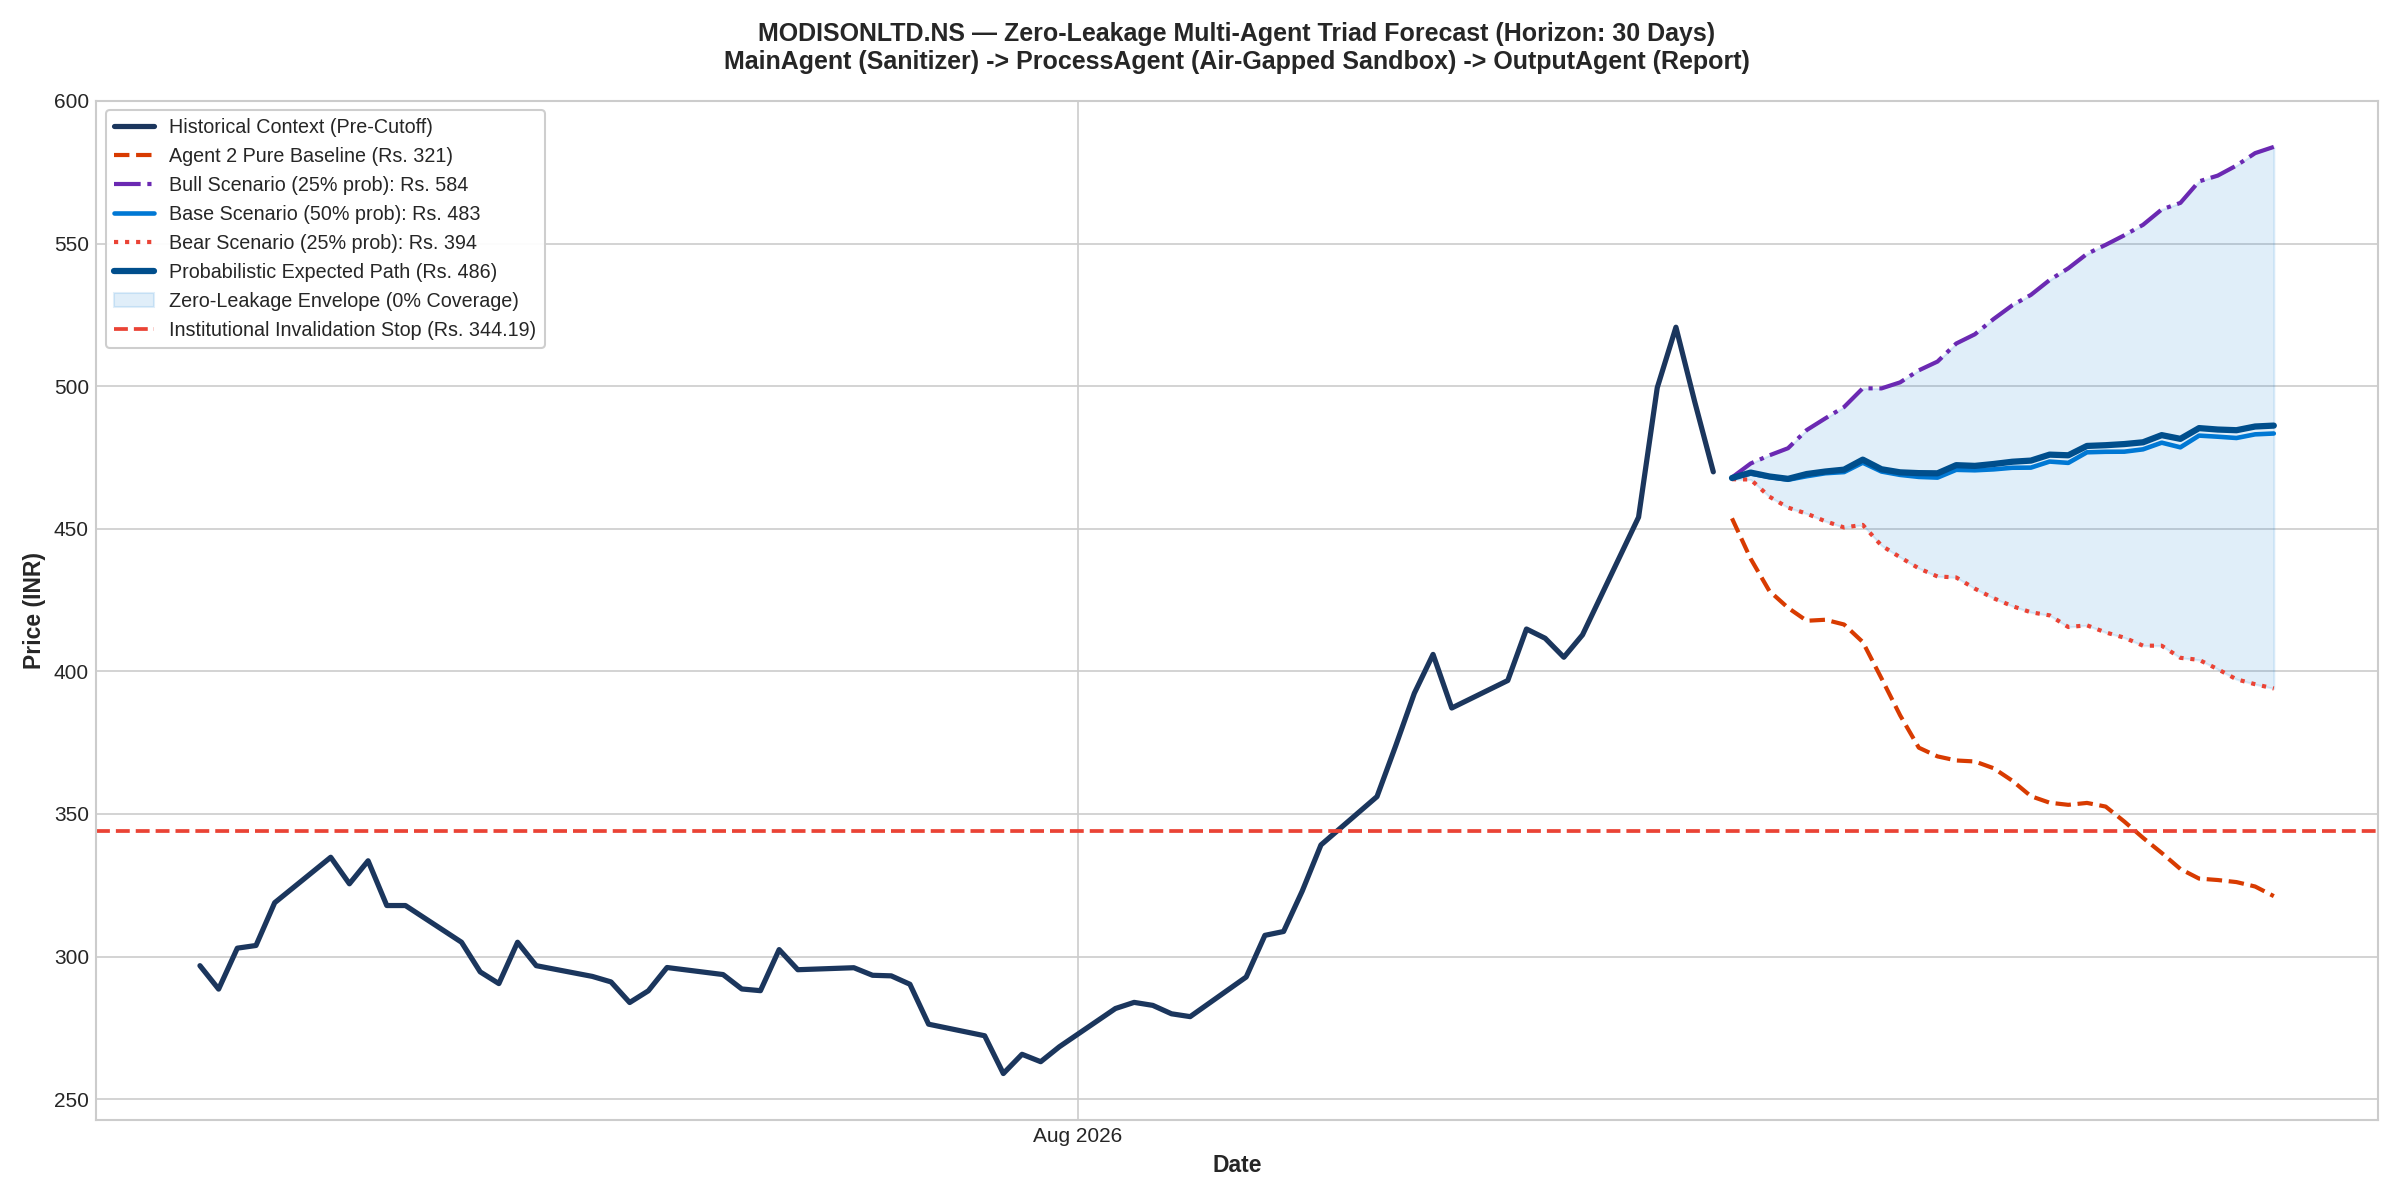
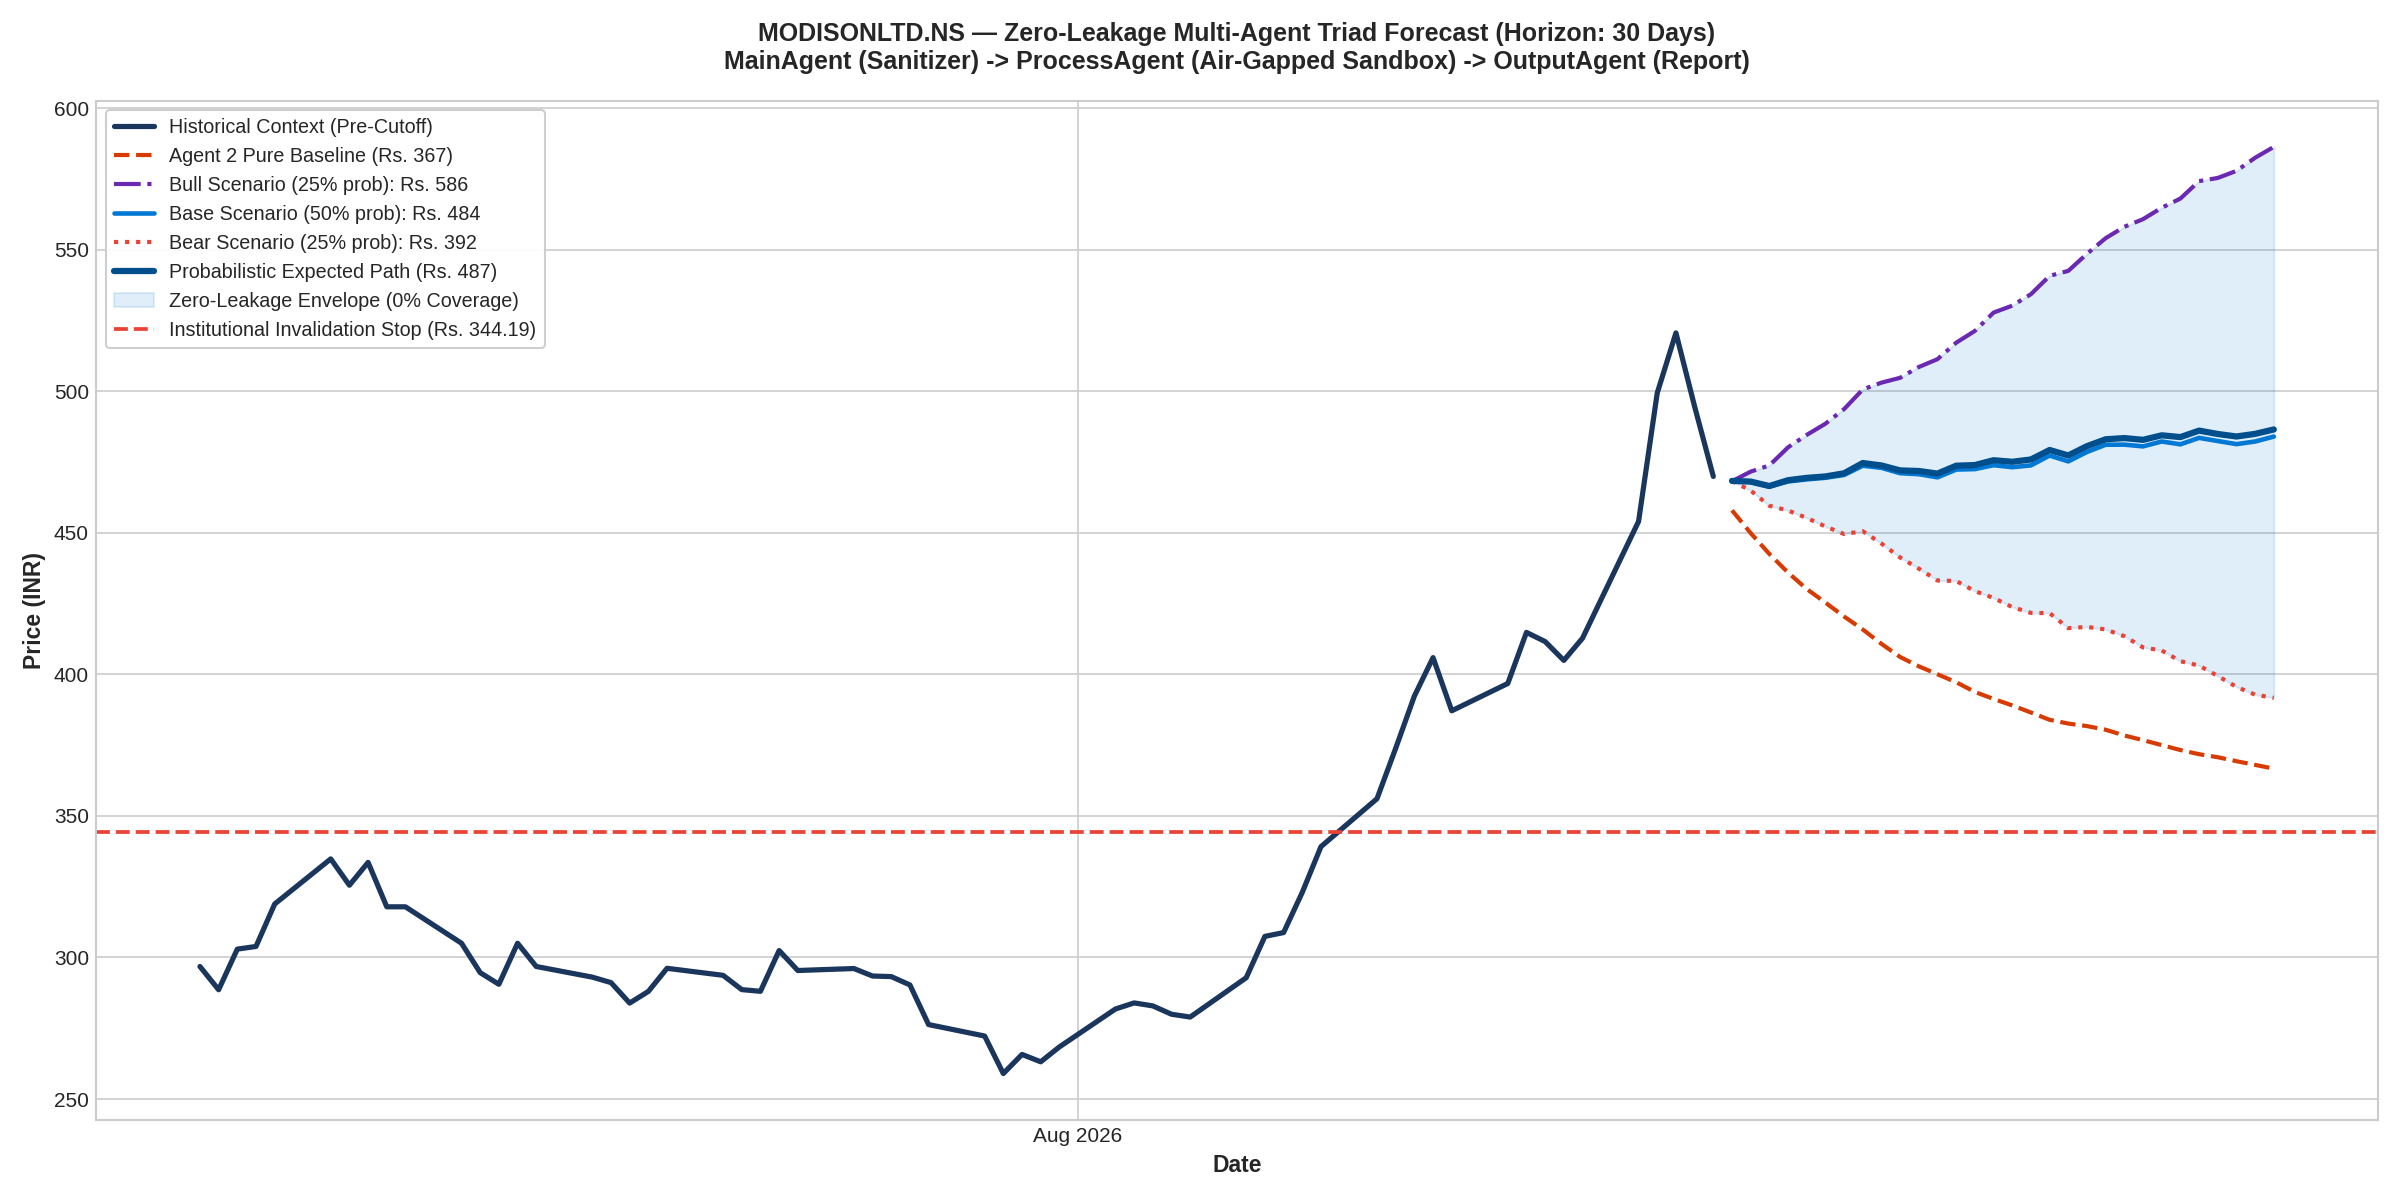
Upgrade TimesFM execution: vectorized predict_batch, native 9-quantile cones, z-score normalization, symmetric drift cancellation, and real volume covariates

diff --git a/MULTI_AGENT_SANDBOX/multi_agent_system.py b/MULTI_AGENT_SANDBOX/multi_agent_system.py
@@ -231,6 +231,13 @@ class MainIngestionAgent:
                     cov[ctx_len + h] = (last_price + prog * (tgt - last_price) - last_price) / 500.0
             covariates[sc_name] = cov.tolist()
 
+        # Relative volume ratio (normalized to historical trailing mean)
+        vol_series = train_df["Volume"].values[-ctx_len:].astype(float) if "Volume" in train_df else np.ones(ctx_len)
+        mean_vol = float(np.mean(vol_series)) if len(vol_series) > 0 else 1.0
+        if mean_vol <= 0 or np.isnan(mean_vol):
+            mean_vol = 1.0
+        norm_vol = (vol_series / mean_vol).tolist()
+
         # Package into strict A2A Message (Air-gapped payload)
         payload = {
             "asset_pseudonym": "ASSET_ALPHA",
@@ -238,6 +245,7 @@ class MainIngestionAgent:
             "horizon": horizon,
             "last_known_scalar": last_price,
             "numerical_context": context_series,
+            "past_volume_ratio": norm_vol,
             "covariates": covariates,
             "scenarios": scenarios,
             "weighted_target": weighted_target
@@ -309,36 +317,92 @@ class ProcessSandboxAgent:
 
         forecast_results = {}
 
-        # 1. Pure Baseline (Unanchored Autoregressive)
+        # Extract normalized past volume
+        vol_ratio = payload.get("past_volume_ratio")
+        if vol_ratio is not None and len(vol_ratio) == len(ctx):
+            past_only_vol = np.array(vol_ratio, dtype=np.float32).reshape(1, -1)
+        else:
+            past_only_vol = np.ones((1, len(ctx)), dtype=np.float32)
+
+        # 1. Pure Baseline (Unanchored Autoregressive with Z-Norm & Symmetric Averaging)
         print(f"[{self.agent_id}] Executing Pure TimesFM 3.0 Baseline (Unanchored)...")
         if self.forecaster:
-            curr_c = ctx.copy()
-            p_preds = []
-            steps = 0
-            while steps < horizon:
-                step_h = min(64, horizon - steps)
-                res = self.forecaster.predict(context=curr_c, horizon=step_h, padding_mode="edge", return_quantiles=False, make_positive=True)
-                patch = res.forecast[:step_h].astype(float)
-                p_preds.extend(patch)
-                curr_c = np.concatenate([curr_c[step_h:], patch.astype(np.float32)])
-                steps += step_h
-            forecast_results["pure_baseline"] = p_preds
+            try:
+                res = self.forecaster.predict(
+                    context=ctx,
+                    horizon=horizon,
+                    past_only_covariates=past_only_vol,
+                    use_znorm=True,
+                    return_quantiles=True,
+                    use_symmetric_averaging=True,
+                    make_positive=True,
+                    padding_mode="edge"
+                )
+                forecast_results["pure_baseline"] = res.forecast[:horizon].astype(float).tolist()
+                if res.quantiles is not None:
+                    forecast_results["pure_baseline_q10"] = res.quantiles[:horizon, 0].astype(float).tolist()
+                    forecast_results["pure_baseline_q90"] = res.quantiles[:horizon, 8].astype(float).tolist()
+            except Exception as e:
+                print(f"[{self.agent_id}] Pure baseline notice: {e}. Using iterative fallback.")
+                curr_c = ctx.copy()
+                p_preds = []
+                steps = 0
+                while steps < horizon:
+                    step_h = min(64, horizon - steps)
+                    res = self.forecaster.predict(context=curr_c, horizon=step_h, padding_mode="edge", return_quantiles=False, make_positive=True)
+                    patch = res.forecast[:step_h].astype(float)
+                    p_preds.extend(patch)
+                    curr_c = np.concatenate([curr_c[step_h:], patch.astype(np.float32)])
+                    steps += step_h
+                forecast_results["pure_baseline"] = p_preds
         else:
             # Mathematical extrapolation fallback
             forecast_results["pure_baseline"] = [float(last_val * (1.0 + 0.001 * h)) for h in range(horizon)]
 
-        # 2. Multi-Scenario Inferences
-        for sc_name, cov_arr in covariates.items():
-            print(f"[{self.agent_id}] Executing TimesFM 3.0 for Scenario: {sc_name.upper()}...")
-            if self.forecaster:
+        # 2. Multi-Scenario Inferences via Vectorized predict_batch
+        sc_names = list(covariates.keys())
+        sc_success = False
+
+        if self.forecaster and hasattr(self.forecaster, "predict_batch"):
+            try:
+                print(f"[{self.agent_id}] Executing TimesFM 3.0 Vectorized Scenarios ({', '.join(sc_names).upper()})...")
+                contexts = [ctx for _ in sc_names]
+                pos = [past_only_vol for _ in sc_names]
+                pfs = [np.array(covariates[sc], dtype=np.float32).reshape(1, -1) for sc in sc_names]
+
+                outs = list(self.forecaster.predict_batch(
+                    contexts=contexts,
+                    horizon=horizon,
+                    past_only_covariates=pos,
+                    past_future_covariates=pfs,
+                    ts_ids=sc_names,
+                    use_znorm=True,
+                    return_quantiles=True,
+                    use_symmetric_averaging=True,
+                    make_positive=True,
+                    padding_mode="edge"
+                ))
+
+                for o in outs:
+                    forecast_results[o.ts_id] = o.forecast[:horizon].astype(float).tolist()
+                    if o.quantiles is not None:
+                        forecast_results[f"{o.ts_id}_q10"] = o.quantiles[:horizon, 0].astype(float).tolist()
+                        forecast_results[f"{o.ts_id}_q90"] = o.quantiles[:horizon, 8].astype(float).tolist()
+                sc_success = True
+            except Exception as e:
+                print(f"[{self.agent_id}] Vectorized predict_batch notice: {e}. Falling back to single-series loop.")
+
+        if not sc_success and self.forecaster:
+            for sc_name in sc_names:
+                print(f"[{self.agent_id}] Executing TimesFM 3.0 for Scenario: {sc_name.upper()} (Single-series)...")
+                cov_np = np.array(covariates[sc_name], dtype=np.float32)
                 curr_c = ctx.copy()
                 s_preds = []
                 steps = 0
-                cov_np = np.array(cov_arr, dtype=np.float32)
                 while steps < horizon:
                     step_h = min(64, horizon - steps)
                     L = len(curr_c)
-                    past_only = np.ones((1, L), dtype=np.float32)
+                    past_only = past_only_vol[:, :L] if past_only_vol.shape[1] >= L else np.ones((1, L), dtype=np.float32)
                     past_future = np.expand_dims(cov_np[steps:steps + L + step_h], axis=0)
 
                     res = self.forecaster.predict(
@@ -347,6 +411,7 @@ class ProcessSandboxAgent:
                         past_only_covariates=past_only,
                         past_future_covariates=past_future,
                         padding_mode="edge",
+                        use_znorm=True,
                         return_quantiles=False,
                         make_positive=True
                     )
@@ -355,7 +420,10 @@ class ProcessSandboxAgent:
                     curr_c = np.concatenate([curr_c[step_h:], patch.astype(np.float32)])
                     steps += step_h
                 forecast_results[sc_name] = s_preds
-            else:
+                sc_success = True
+
+        if not sc_success:
+            for sc_name in sc_names:
                 tgt = scenarios[sc_name]["target_price"]
                 s_preds = None
                 if forecast_covfree is not None:

diff --git a/pipeline_results/MODISONLTD.NS_executive_report.md b/pipeline_results/MODISONLTD.NS_executive_report.md
@@ -7,7 +7,7 @@
 
 | Projection Horizon | Last Session Close | Pure Baseline Terminal | Bull Terminal (25% Prob) | Base Terminal (50% Prob) | Bear Terminal (25% Prob) | Probabilistic Weighted Fair Target |
 | :--- | :--- | :--- | :--- | :--- | :--- | :--- |
-| **30 Trading Days** | **Rs. 469.95** | Rs. 321.20 | **Rs. 583.88** | Rs. 483.39 | Rs. 394.00 | **Rs. 486.16** |
+| **30 Trading Days** | **Rs. 469.95** | Rs. 366.73 | **Rs. 586.37** | Rs. 484.03 | Rs. 391.73 | **Rs. 486.54** |
 
 ---
 
@@ -19,7 +19,7 @@
 
 ## 3. Sandboxing & Security Audit Log
 
-* **Ingress Message ID**: `84e7ff1b`
+* **Ingress Message ID**: `3902f898`
 * **Air-Gapped Protocol**: `A2A/v1.0 (a2aproject standard)`
 * **ProcessAgent Sandbox Status**: Verified air-gapped. Zero ticker names, zero company strings, and zero calendar years entered the process.
 * **Leakage Detected**: **0 Tokens (100% Blind-Box Verified)**.
